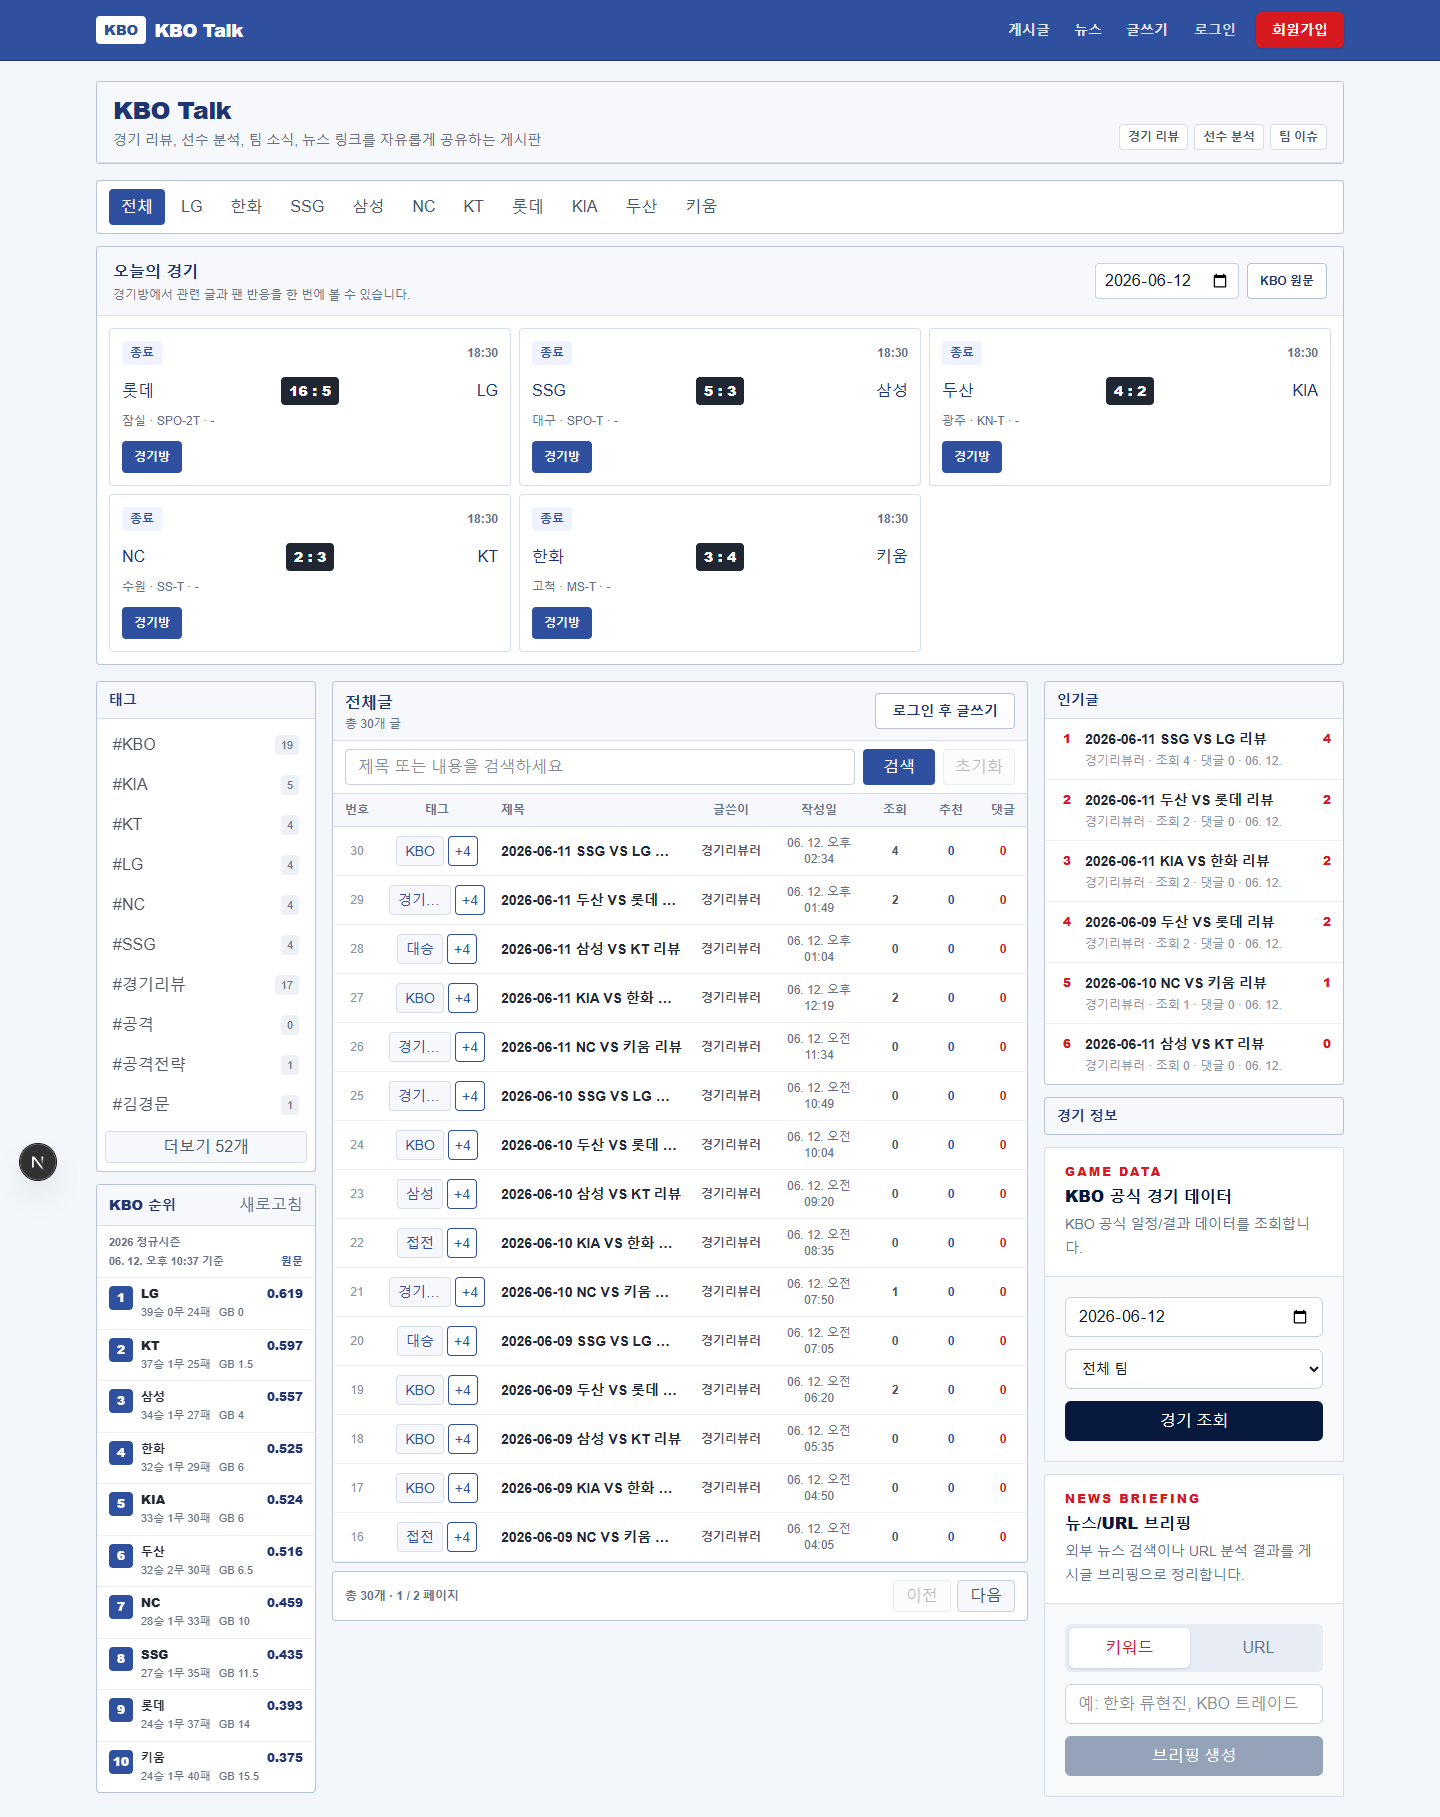
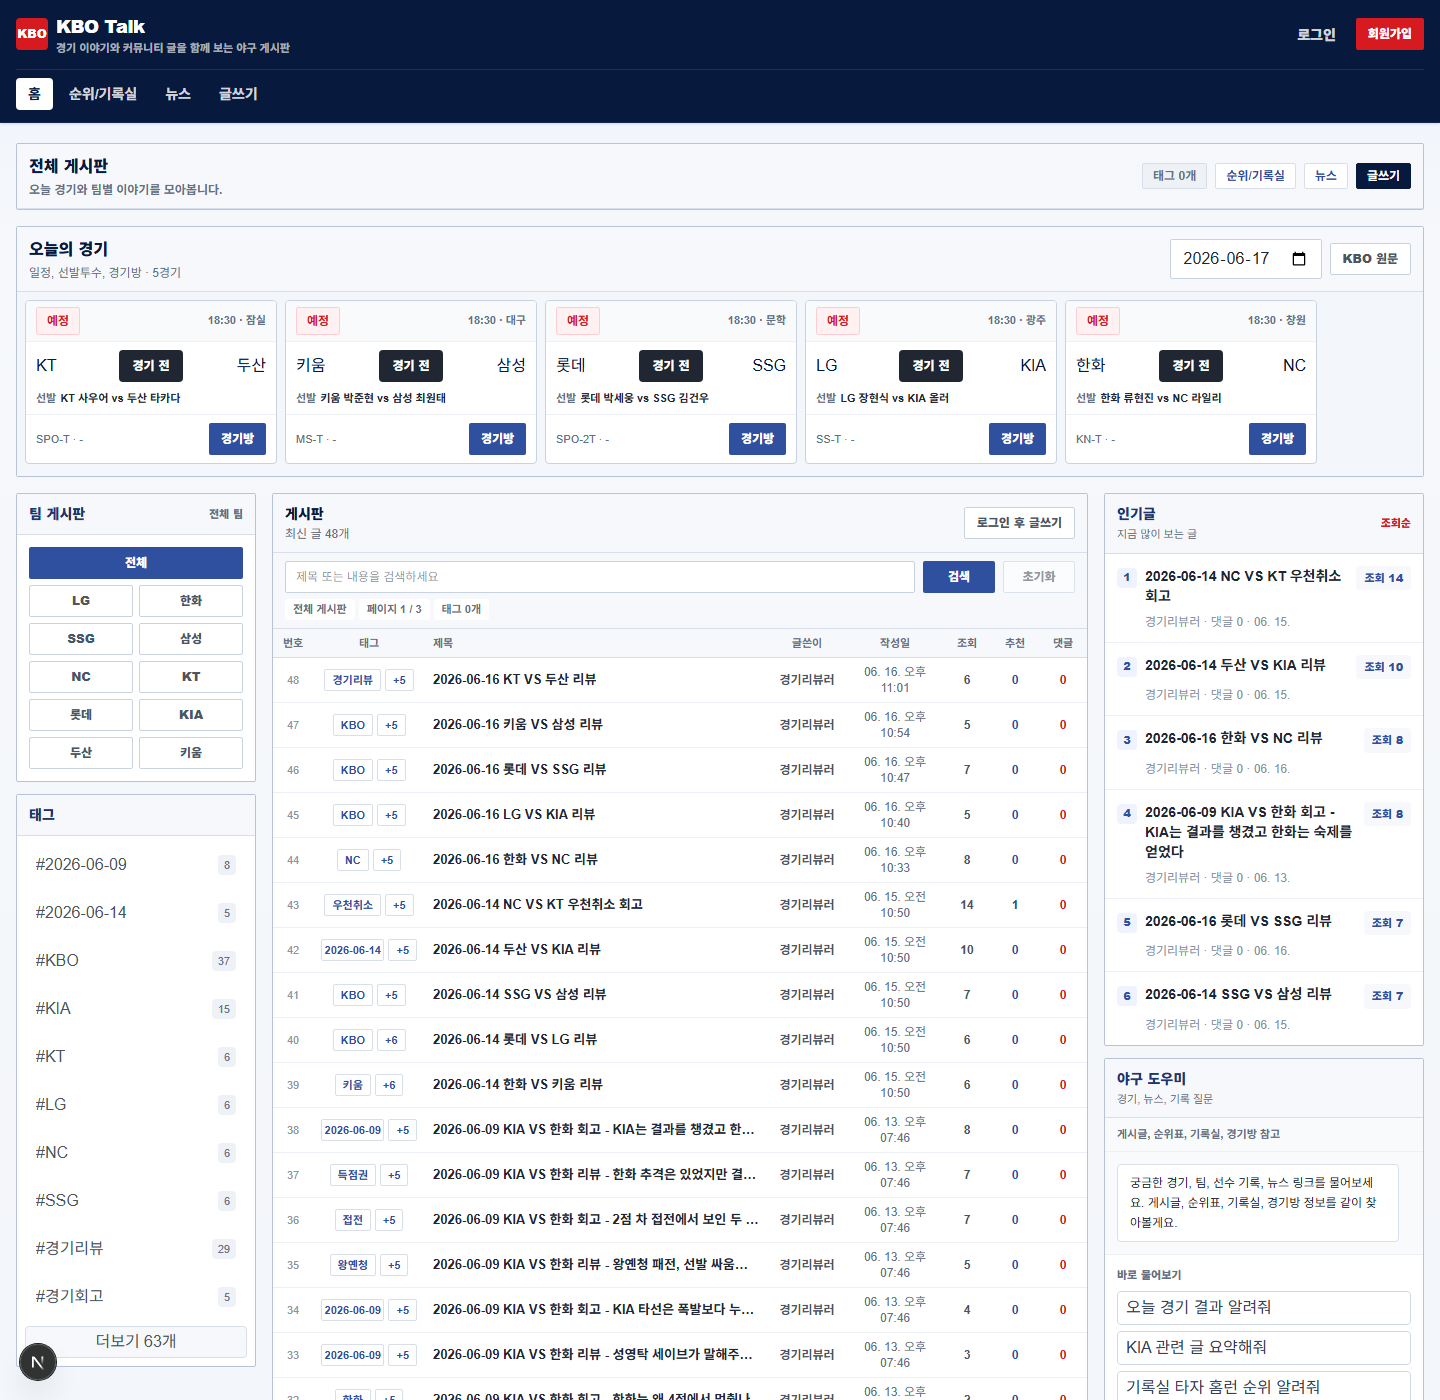
docs: README 최신화

Changed region(s): [[0.0, 0.0, 1.0, 1.0], [0.8438, 0.2764, 0.9062, 0.3379]]

diff --git a/README.md b/README.md
@@ -63,11 +63,11 @@ AI 기능은 다음 세 가지 축으로 구성했습니다.
 - 메인 화면 KBO 오늘의 경기 스코어보드
 - 경기방: 경기별 상세 화면
 - 경기방 선발 투수, 승리 투수, 패전 투수, 세이브 투수 표시
+- 경기방 박스스코어, 타자 기록, 투수 기록 표시
 - 경기방 라인업 조회
 - 경기방 1회부터 9회까지 문자중계 조회
 - 경기방 관련 게시글 요약
-- KBO 팀 순위 표시
-- 선수 기록실 페이지
+- 순위/기록실 페이지에서 KBO 팀 순위와 선수 기록 표시
 - KBO 뉴스 페이지
 - 뉴스 URL 브리핑 연결
 - 조회수 기반 인기글
@@ -317,9 +317,9 @@ src/app/api/ai/prediction/game/route.ts
 | `/posts/new` | 게시글 작성, 태그 선택, 유사 글 확인, 리뷰 초안 생성 |
 | `/posts/[postId]` | 게시글 상세, 댓글, 추천/비추천, 유사 글 추천 |
 | `/posts/[postId]/edit` | 게시글 수정 |
-| `/games/[gameId]` | 경기방, 라인업, 문자중계, 관련 글 요약, 공식 기록 브리핑 |
+| `/games/[gameId]` | 경기방, 박스스코어, 타자/투수 기록, 라인업, 문자중계, 관련 글 요약, 공식 기록 브리핑 |
 | `/news` | KBO 뉴스 목록과 URL 브리핑 |
-| `/records` | 선수 기록실 |
+| `/records` | 순위/기록실, KBO 팀 순위와 선수 기록 조회 |
 | `/login` | 로그인 |
 | `/signup` | 회원가입 |
 
@@ -341,6 +341,7 @@ src/app/api/ai/prediction/game/route.ts
 | `/api/kbo/news` | KBO 뉴스 조회 |
 | `/api/kbo/standings` | KBO 순위 조회 |
 | `/api/kbo/player-records` | 선수 기록 조회 |
+| `/api/kbo/boxscore` | 경기 박스스코어와 타자/투수 기록 조회 |
 | `/api/kbo/lineup` | 경기 라인업 조회 |
 | `/api/kbo/relay` | 네이버 문자중계 조회 |
 | `/api/mcp/baseball-briefing` | MCP JSON-RPC 서버 |
@@ -416,15 +417,16 @@ npx.cmd prisma migrate status
 
 ### 추천 시연 흐름
 
-1. 메인 화면에서 게시글 목록, 오늘의 경기, 팀/태그 필터, 인기글, KBO 순위 확인
-2. 경기방에서 선발 투수, 승리/패전/세이브 투수, 라인업, 문자중계 확인
-3. 경기방에서 관련 글 요약과 공식 기록 브리핑 실행
-4. 글쓰기 페이지에서 기존 태그 선택과 유사 글 확인
-5. 경기 리뷰 작성 도우미로 리뷰 초안 생성
-6. 뉴스 페이지에서 기사 확인 후 URL 브리핑 실행
-7. 게시글 상세에서 유사 게시글 추천 확인
-8. 댓글 작성 시 모더레이터 경고/차단 흐름 확인
-9. 야구 게시판 도우미에게 게시글, 순위, 기록실, 경기방 관련 질문 입력
+1. 메인 화면에서 게시글 목록, 오늘의 경기, 팀/태그 필터, 인기글, 야구 도우미 확인
+2. 순위/기록실 페이지에서 KBO 팀 순위와 선수 기록 조회
+3. 경기방에서 선발 투수, 승리/패전/세이브 투수, 박스스코어, 타자/투수 기록 확인
+4. 경기방에서 라인업, 문자중계, 관련 글 요약과 공식 기록 브리핑 확인
+5. 글쓰기 페이지에서 기존 태그 선택과 유사 글 확인
+6. 경기 리뷰 작성 도우미로 리뷰 초안 생성
+7. 뉴스 페이지에서 기사 확인 후 URL 브리핑 실행
+8. 게시글 상세에서 유사 게시글 추천 확인
+9. 댓글 작성 시 모더레이터 경고/차단 흐름 확인
+10. 야구 게시판 도우미에게 게시글, 순위, 기록실, 경기방 관련 질문 입력
 
 ### RAG / MCP / Agent 시연 구분
 
@@ -458,6 +460,7 @@ npx.cmd prisma migrate status
 - KBO 뉴스 조회 확인
 - KBO 순위 조회 확인
 - 선수 기록실 조회 확인
+- KBO 박스스코어와 타자/투수 기록 조회 확인
 - KBO 경기 정보 조회 확인
 - 라인업 조회 확인
 - 문자중계 이닝별 조회 로직 확인